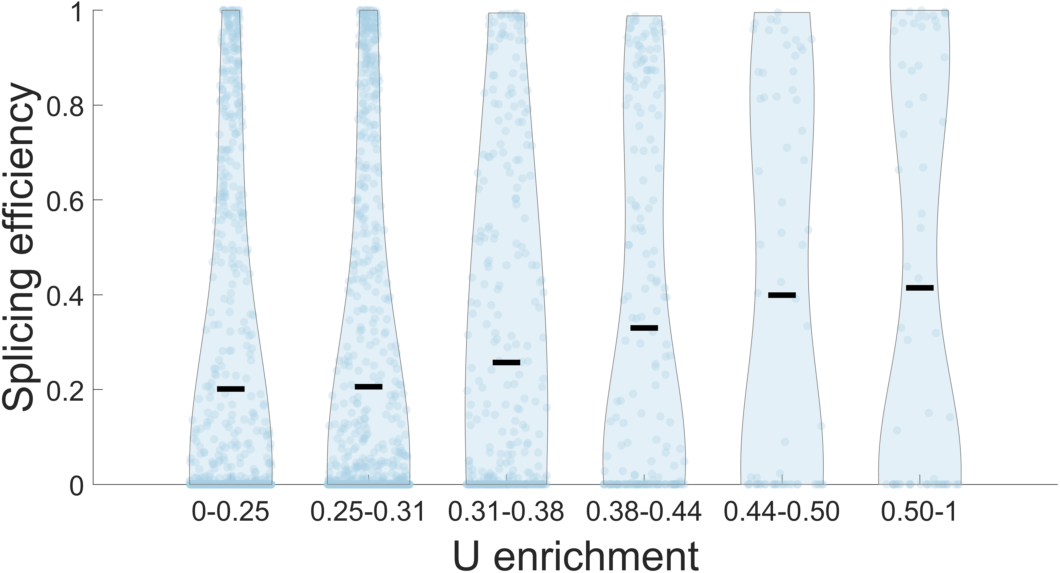
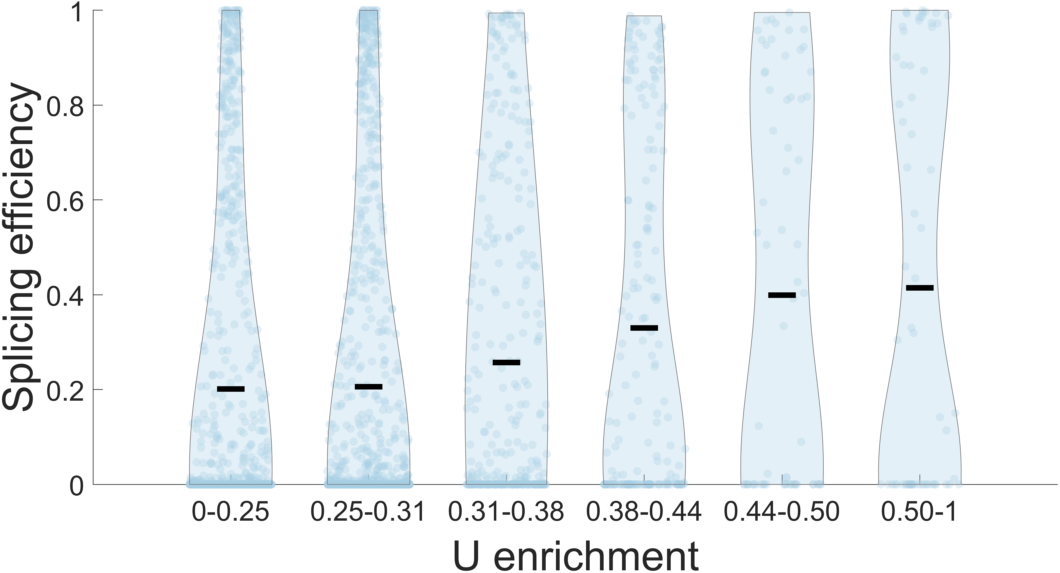
revision

diff --git a/analysis/Source/Figure3.m b/analysis/Source/Figure3.m
@@ -108,6 +108,8 @@ splicing_lib_tbl(cell2mat(cellfun(@(x) ~isempty(strfind(x,'double')),splicing_li
 splicing_lib_tbl(cellfind(splicing_lib_tbl.type,'synthetic control'),:)=[];
 splicing_lib_tbl(cellfind(splicing_lib_tbl.type,'synthetic alternative background control'),:)=[];
 splicing_lib_tbl(cellfind(splicing_lib_tbl.type,'synthetic hairpin - control'),:)=[];
+splicing_lib_tbl(cellfind(splicing_lib_tbl.type,'synthetic hairpin'),:)=[];
+splicing_lib_tbl(cellfind(splicing_lib_tbl.type,'synthetic mutated'),:)=[];
 
 
 splicing_lib_tbl.GC=cellfun(@(x) get_GC(x),splicing_lib_tbl.seq);
